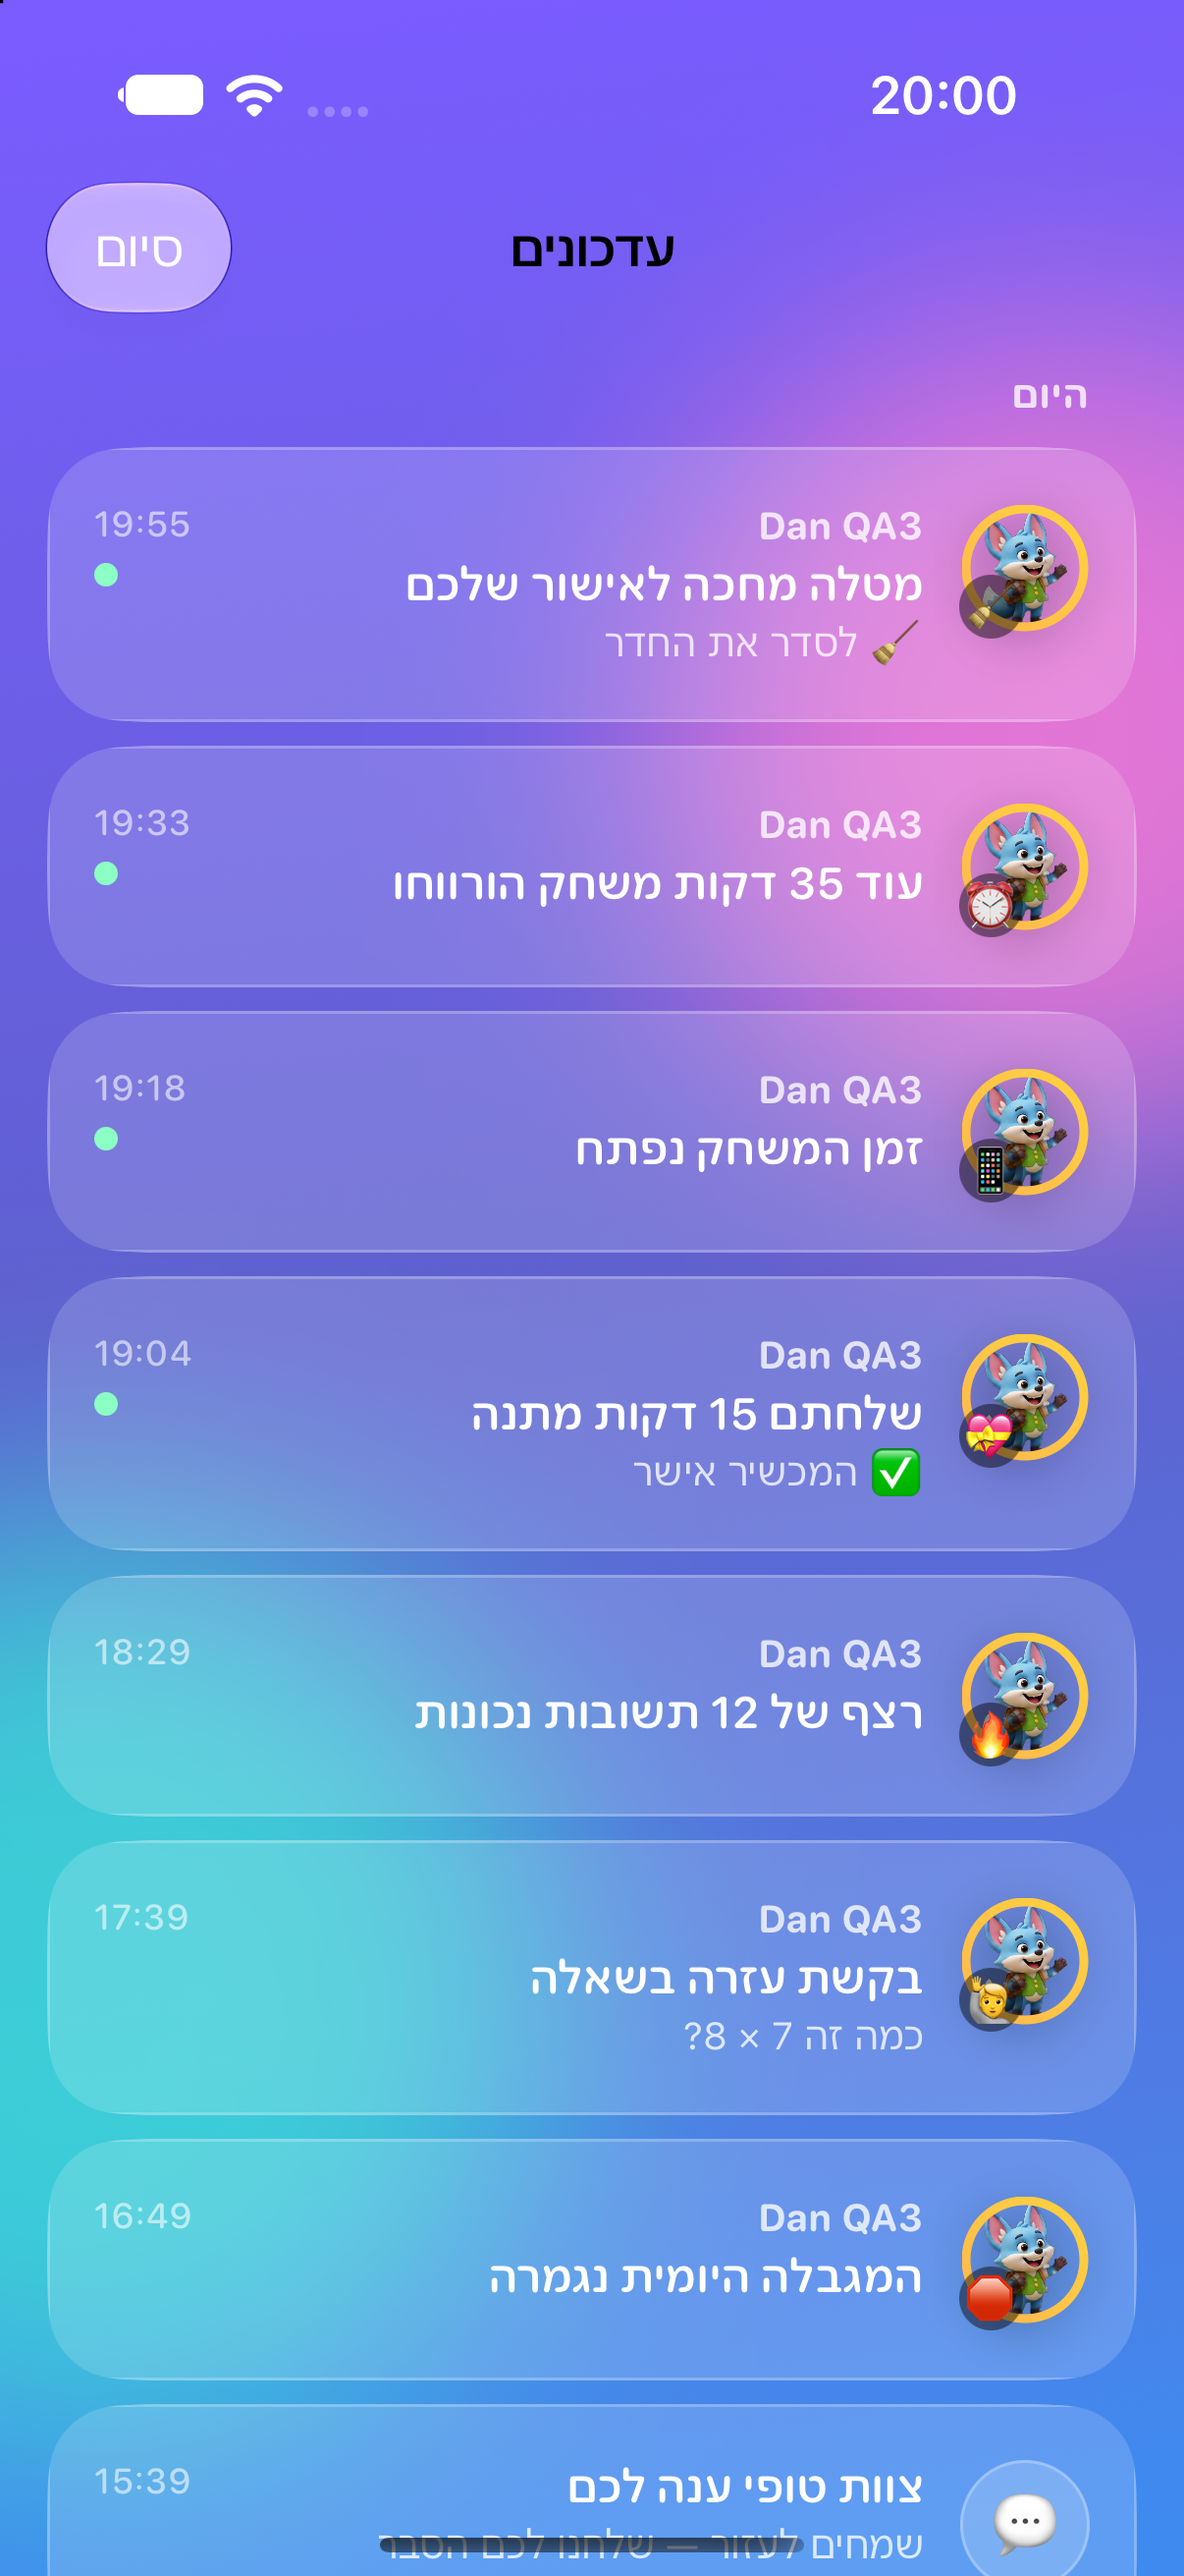
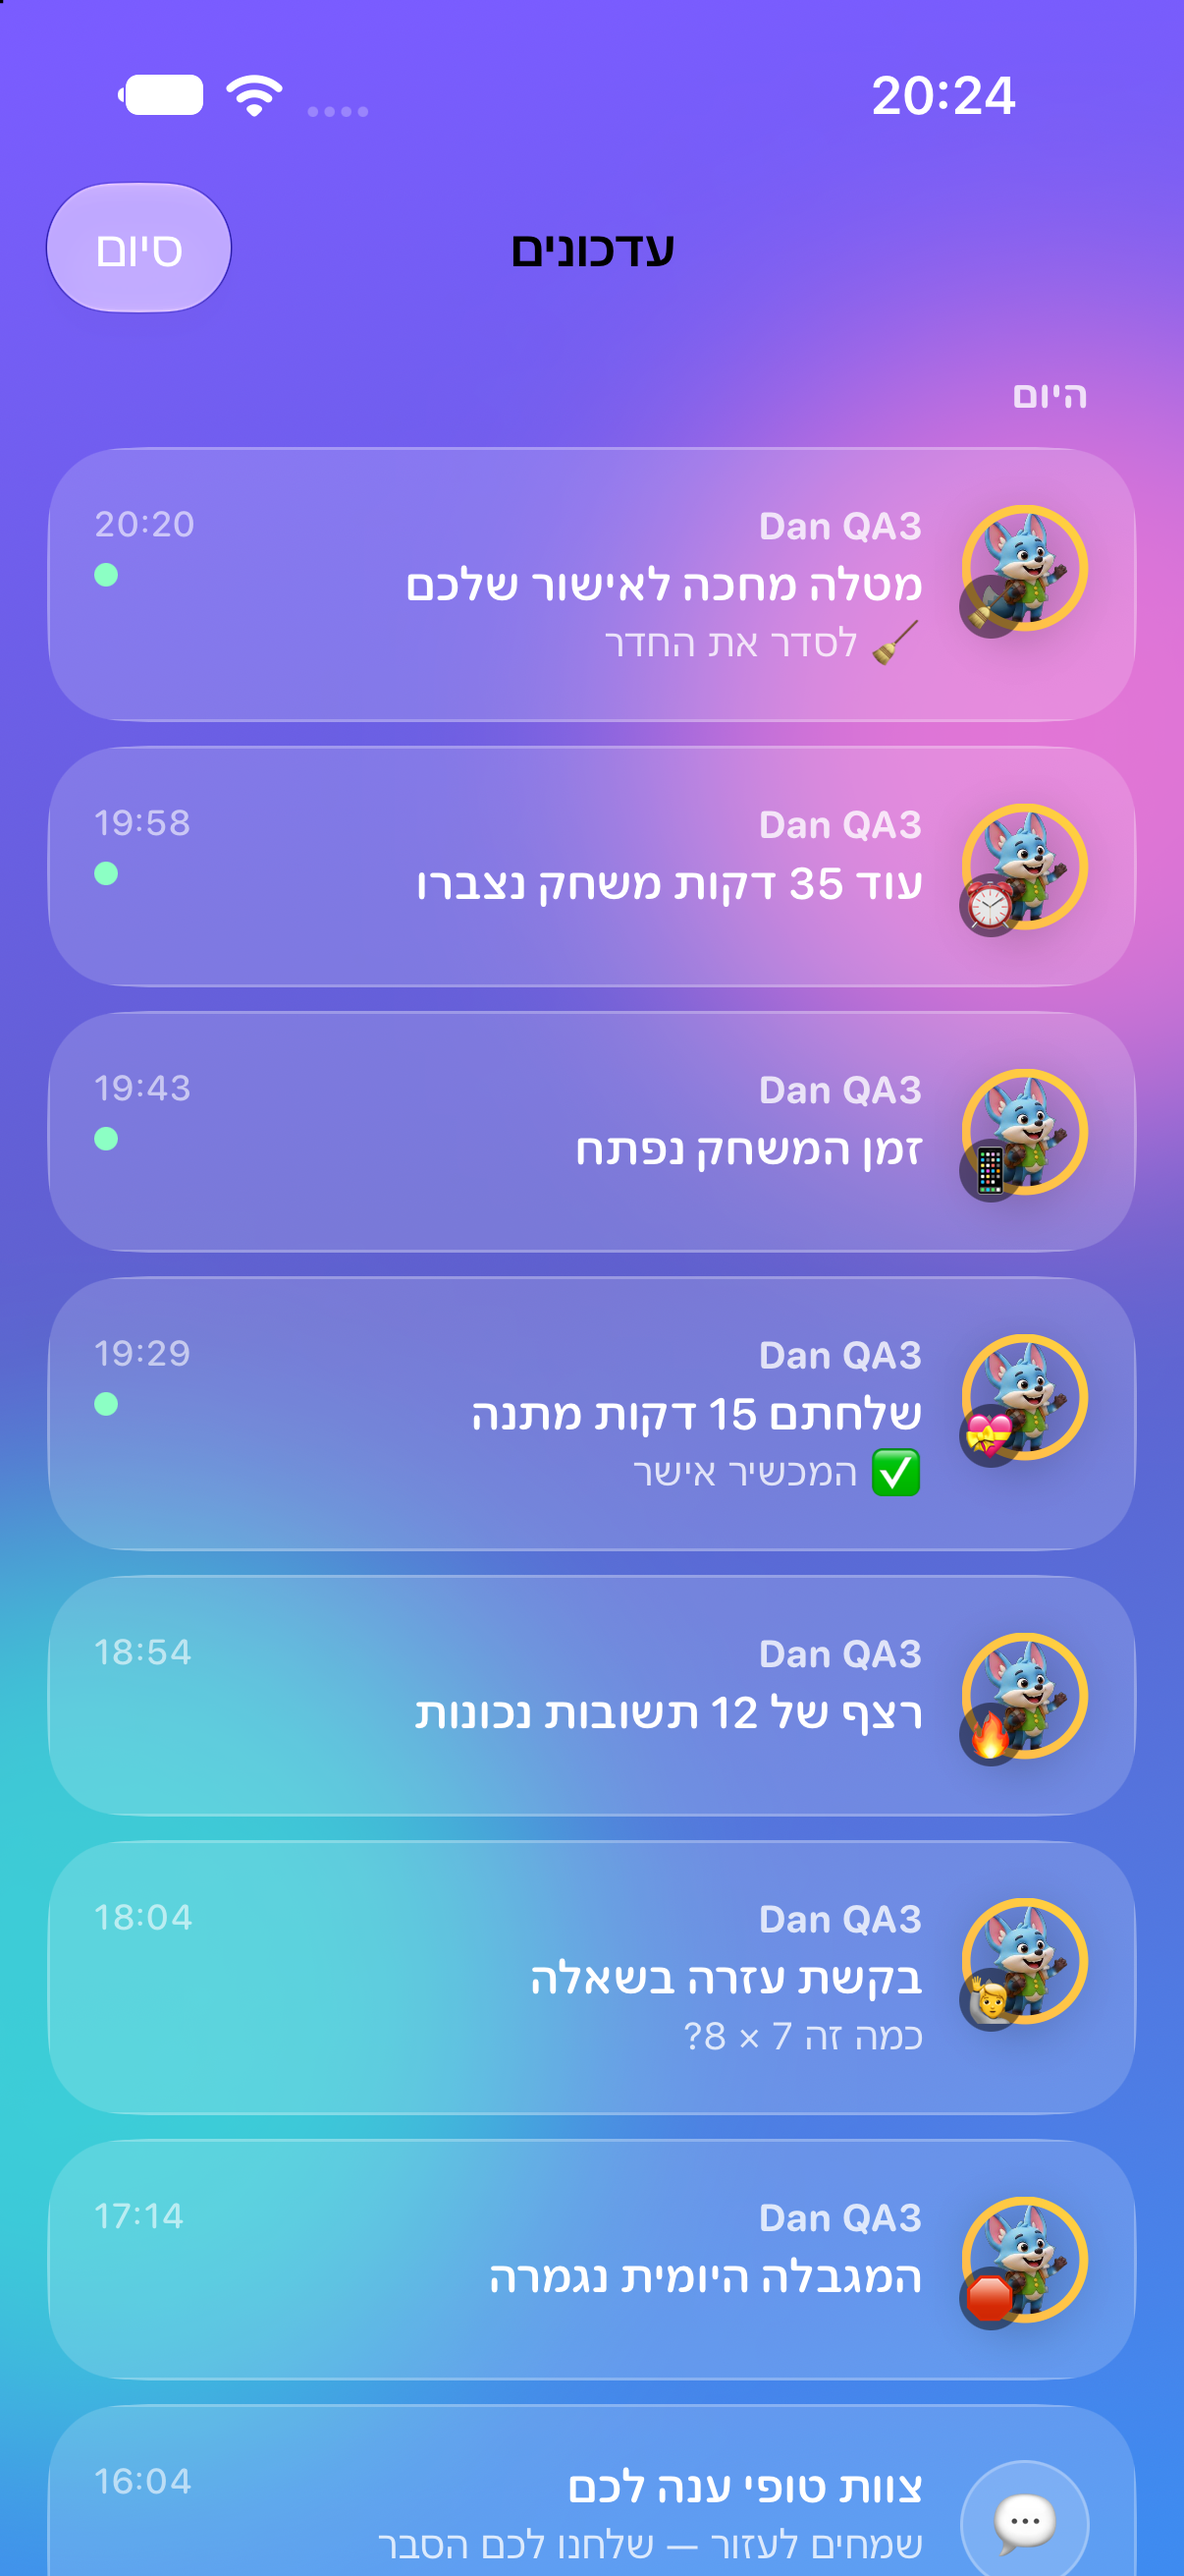
🔤 הגהה בפיד: "נצברו", "טופי+", "ההזמנה מומשה"
שלוש מילים שנשמעו מסורבלות: דקות משחק "נצברו" במקום "הורווחו" (וזה
גם מה שהפוש עצמו כבר אומר — "דק' שנצברו"), המוצר נכתב "טופי+" כמו
בכל שאר האפליקציה, והזמנה למשפחה "מומשה" ולא "נוצלה".

diff --git a/ChildTime/Models/ActivityFeed.swift b/ChildTime/Models/ActivityFeed.swift
@@ -123,7 +123,7 @@ enum ActivityKind: String, Codable, CaseIterable {
         switch self {
         case .playStarted:      return tr("התחלת משחק")
         case .playEnded:        return tr("סבב הסתיים")
-        case .minutesEarned:    return tr("עוד \(n) דקות משחק הורווחו")
+        case .minutesEarned:    return tr("עוד \(n) דקות משחק נצברו")
         case .dailyCapReached:  return tr("המגבלה היומית נגמרה")
         case .screenTimeStart:  return tr("זמן המשחק נפתח")
         case .screenTimeEnd:    return tr("זמן המשחק נגמר")
@@ -136,7 +136,7 @@ enum ActivityKind: String, Codable, CaseIterable {
         case .discovery:        return v.isEmpty ? tr("גילוי עניין בנושא חדש") : tr("גילוי עניין ב\(v)")
         case .wheelWin:         return tr("זכייה בגלגל המזל")
         case .helpRequest:      return tr("בקשת עזרה בשאלה")
-        case .premiumRequest:   return tr("בקשה לטופי פלוס")
+        case .premiumRequest:   return tr("בקשה לטופי+")
         case .packRequest:      return tr("בקשה לחבילת שאלות")
         case .timeTransfer:     return tr("בקשה להעברת דקות בין האחים")
         case .choreWaiting:     return tr("מטלה מחכה לאישור שלכם")
@@ -148,7 +148,7 @@ enum ActivityKind: String, Codable, CaseIterable {
         case .remoteUnlock:     return tr("פתחתם את המכשיר מרחוק")
         case .deviceJoined:     return tr("מכשיר חדש הצטרף למשפחה")
         case .deviceQuiet:      return tr("אין פעילות מהמכשיר כבר \(n) ימים")
-        case .inviteRedeemed:   return tr("ההזמנה למשפחה נוצלה")
+        case .inviteRedeemed:   return tr("ההזמנה למשפחה מומשה")
         case .accountLink:      return tr("עדכון בחיבור המשפחה")
         case .parentGate:       return tr("קוד ההורים הוזן במכשיר של הילד")
         case .giftNotOpened:    return tr("המתנה לא נפתחה במכשיר")
